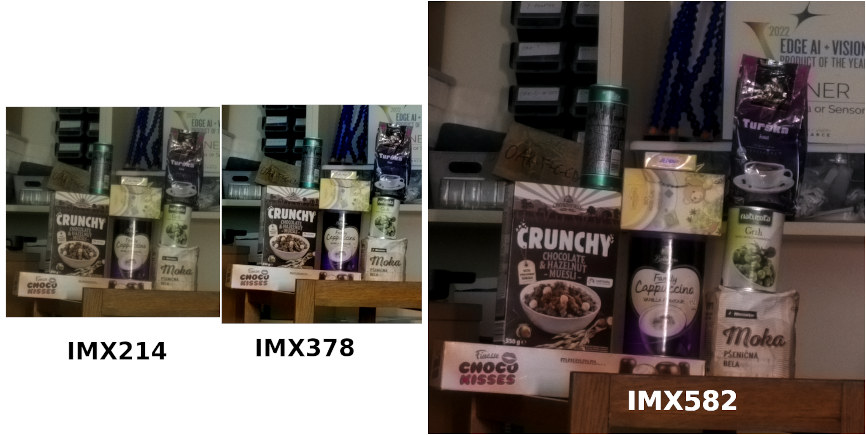
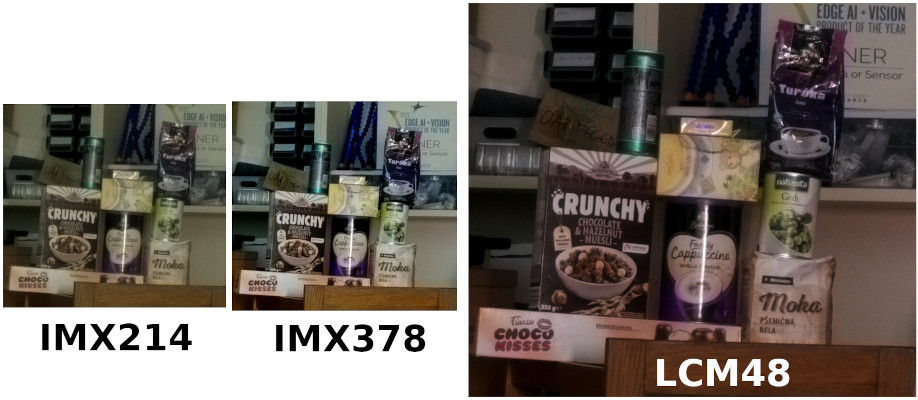
fixed typo

diff --git a/docs/source/pages/articles/sensors/lcm48.rst b/docs/source/pages/articles/sensors/lcm48.rst
@@ -1,7 +1,9 @@
-IMX582
-======
+.. _LCM48:
 
-Sony's IMX582 is a 48MP (8000x6000) rolling shutter color image sensor. It's the highest resolution sensor that depthai
+Luxonis Proprietary 48MP Camera Module
+======================================
+
+This is a proprietary 48MP (8000x6000) rolling shutter color image sensor. It's the highest resolution sensor that depthai
 currnetly supports.
 
 Supported resolutions
@@ -29,17 +31,17 @@ implementing split processing for the full 8000 width.
 So at the moment the image at full resolution (THE_48_MP) has narrower HFOV than the camera actually is (see image below),
 just because of this limitation on linewidth.
 
-To use IMX582, checkout `depthai-python <https://github.com/luxonis/depthai-python>`__ to the ``multi_cam_support``
+To use the LCM48, checkout `depthai-python <https://github.com/luxonis/depthai-python>`__ to the ``multi_cam_support``
 branch, and install the library by running ``python3 examples/install_requirements.py``. You can quikcly evaluate
-the sensor by running ``python3 tests/cam_test.py -cams rgb,c -cres 13mp``.
+the sensor by running ``python3 tests/cam_test.py -cams rgb,c -cres 48mp``.
 
 .. include::  /pages/articles/sensors/includes/ffc-section.rst
 
-- OAK-FFC-IMX582
+- OAK-FFC-LCM48
 
-.. figure:: /_static/images/sensors/imx582/imx582-ffc.jpg
+.. figure:: /_static/images/sensors/LCM48/48mp-ffc.jpg
 
-  OAK-FFC-IMX582 (AF, NFOV)
+  OAK-FFC-LCM48 (AF, NFOV)
 
 .. include::  /pages/articles/sensors/includes/ccm-section.rst
 
@@ -53,16 +55,16 @@ the sensor by running ``python3 tests/cam_test.py -cams rgb,c -cres 13mp``.
     * FF: PY106 (Focus: 50cm+)
   * WFOV FF (PY080) - 120° DFOV, 96° HFOV, 89° VFOV, EFL: 2.75, F. NO: 2.8±5%, Distortion: < -14.6%, Lens Size: 1/2", Focus: 50cm+
 
-.. figure:: /_static/images/sensors/imx582/imx582-ccm.jpg
+.. figure:: /_static/images/sensors/LCM48/lcm48.jpg
 
-  Arducam short FPC NFOV AF IMX582
+  Arducam short FPC NFOV AF LCM48
 
 .. include::  /pages/articles/sensors/includes/image_quality_comparison.rst
 
 Additional images
 #################
 
-.. figure:: /_static/images/sensors/imx582/car-license-plate-70m.png
+.. figure:: /_static/images/sensors/LCM48/car-license-plate-70m.png
   :target: https://drive.google.com/file/d/1EuWfGcxb7PVfs38xCuyuj_hzVAN5eH8z
 
   Car license plate at 70m. Click on this image for the full resolution image on Google Drive. We suggest downloading

diff --git a/docs/source/pages/articles/sensors/includes/image_quality_comparison.rst b/docs/source/pages/articles/sensors/includes/image_quality_comparison.rst
@@ -4,13 +4,13 @@ Image quality comparison
 Here's an image comparison between different image sensors captured from :ref:`OAK-FFC-3P`.
 For more information, see `Improving Image Quality <https://docs.luxonis.com/projects/api/en/latest/tutorials/image_quality/>`__ docs.
 
-:ref:`IMX214` (13MP color sensor), :ref:`IMX378` (12MP color sensor), :ref:`IMX582` (48MP color sensor)
+:ref:`IMX214` (13MP color sensor), :ref:`IMX378` (12MP color sensor), :ref:`LCM48 <LCM48>` (48MP color sensor)
 
 .. image:: /_static/images/sensors/comparison/comparison-preview.jpg
-     :target: https://user-images.githubusercontent.com/18037362/181762515-2cb87c32-15ea-42f2-92f5-53c1012d2603.png
+     :target: https://user-images.githubusercontent.com/18037362/183928430-a143ad61-b599-4ecd-8d74-0015d45071cf.png
 
 Click on the image for the unencoded full-resolution sensor comparison image. Note that these images are about
-**8x digitally zoomed**, and you can find full-resolution uncropped `frames here <https://drive.google.com/file/d/1UIgYGWbfDlmm2btX8OxQtSDXFvXDqHKF/view?usp=sharing>`__ (300 MB).
+**8x digitally zoomed**, and you can find full-resolution uncropped `frames here <https://drive.google.com/file/d/1sTKfk-HHM4sKdnCde-Nr6jnmV4imyuNC/view?usp=sharing>`__ (300 MB).
 Image specifications: Grocery items are at 4m, 33LUX, senstivity 100ISO. Images were taken at 200ms,300ms,400ms,500ms exposure and
 combined with an HDR script (on the host). :ref:`OAK Series 3` cameras will have native HDR support on the camera itself.
 

diff --git a/docs/source/pages/articles/supported_sensors.rst b/docs/source/pages/articles/supported_sensors.rst
@@ -85,7 +85,7 @@ Sensors that are supported but aren't in any of the OAK products yet need to use
      - rolling
      - 4056x3040
      - Initially tested, similar to IMX477
-   * - IMX586 / :ref:`IMX582`
+   * - :ref:`LCM48 <LCM48>`
      - Initially tested
      - rolling
      - 8000x6000
@@ -199,7 +199,7 @@ Arducam short FPC
 * :ref:`IMX477`
 
   * AF (short FPC M12-Mount, haven't yet received samples)
-* :ref:`IMX582`
+* :ref:`LCM48 <LCM48>`
 
   * AF/FF/NoIR/NotchIR - 82° DFOV, 68° HFOV, 55° VFOV
   * FF Wide FOV - 120° DFOV, 96° HFOV, 89° VFOV
